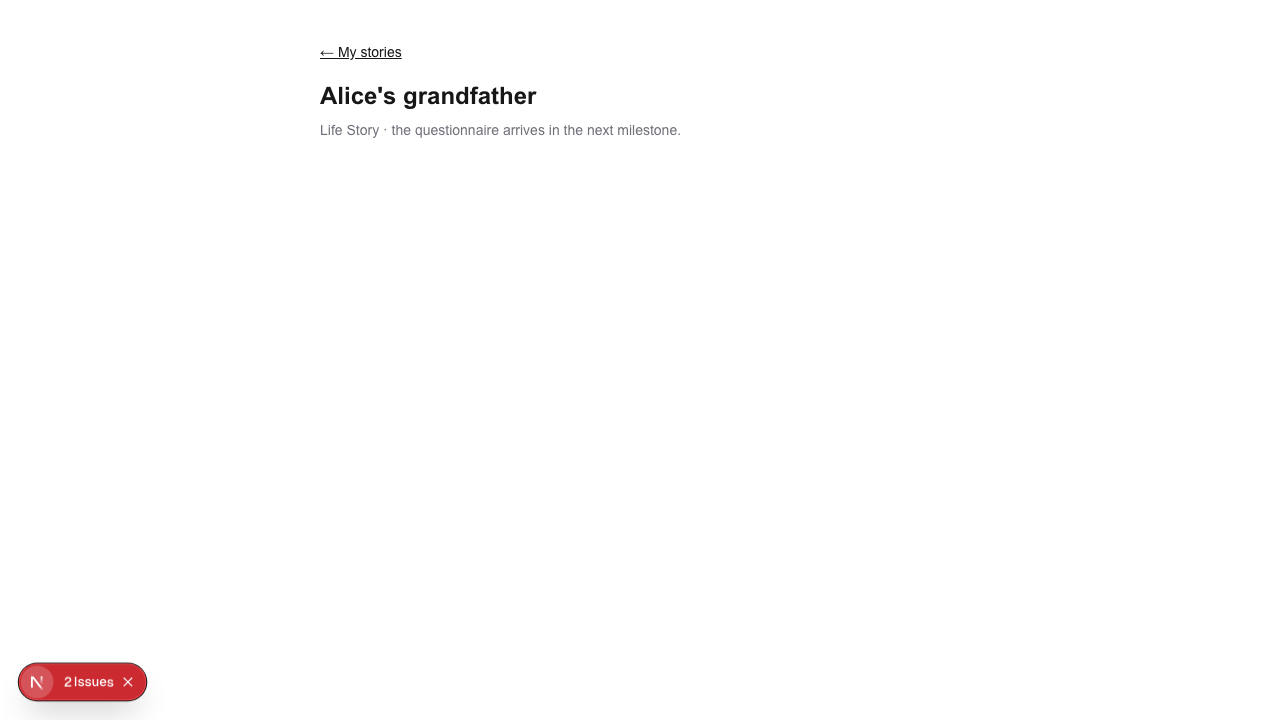
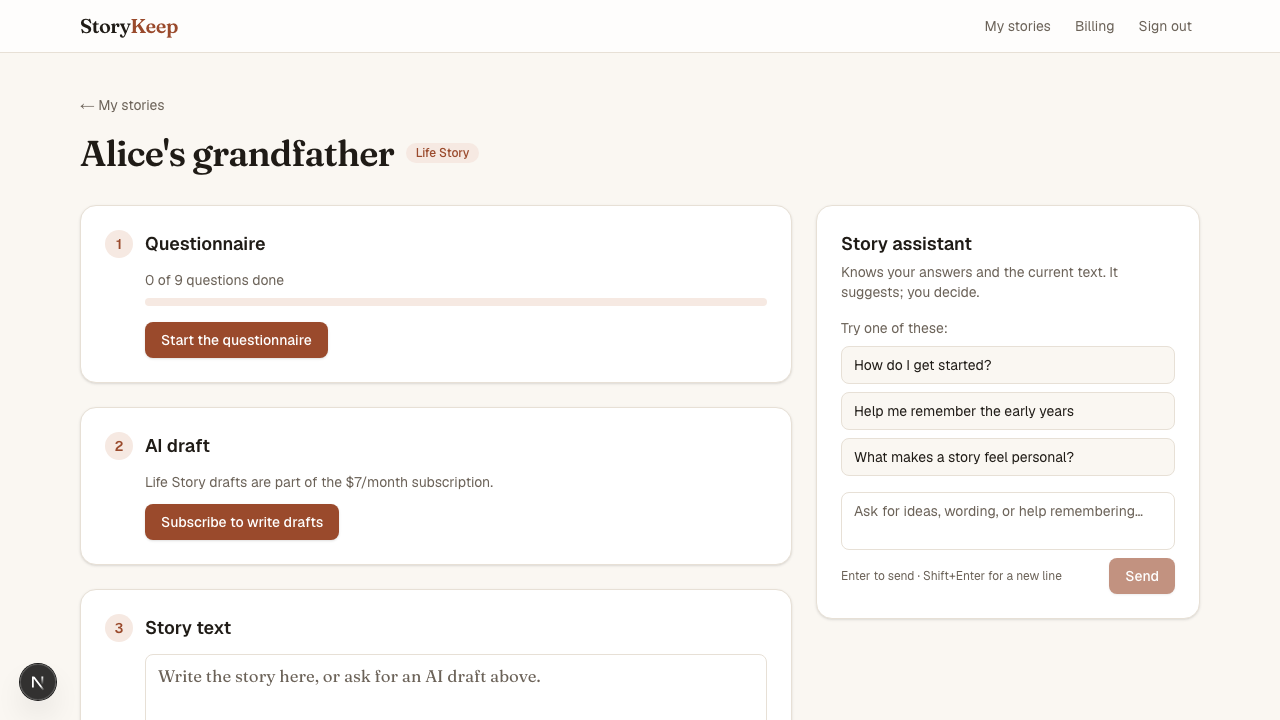
feat: let owners delete a story after confirming
The story page gets a "Delete this story" section with a two-step
confirm. Answers and versions cascade; orders keep their row with
story_id set to null. An unused paid eulogy draft gets an extra warning.

diff --git a/tests/integration/story-access.test.ts b/tests/integration/story-access.test.ts
@@ -1,5 +1,14 @@
 import { beforeEach, describe, expect, it, vi } from "vitest";
-import { createStory, getStoryForUser, listStoriesForUser } from "@/stories/data";
+import {
+  createStory,
+  deleteStoryForUser,
+  getStoryForUser,
+  listStoriesForUser,
+} from "@/stories/data";
+import { eq } from "drizzle-orm";
+import { getDb } from "@/db/client";
+import { storyVersions } from "@/db/schema";
+import { saveVersion } from "@/stories/versions";
 import { createTestUser, resetDb } from "../helpers/db";
 
 // The session is the only thing we fake. The database, the queries and the
@@ -52,6 +61,29 @@ describe("per-user access control for stories", () => {
 
     it("treats a malformed id as not found instead of crashing", async () => {
       expect(await getStoryForUser(alice.id, "not-a-uuid")).toBeNull();
+    });
+
+    it("does not let user A delete user B's story", async () => {
+      expect(await deleteStoryForUser(alice.id, bobsStoryId)).toBe(false);
+      expect(await getStoryForUser(bob.id, bobsStoryId)).not.toBeNull();
+    });
+
+    it("lets the owner delete their story, versions included", async () => {
+      await saveVersion(bob.id, bobsStoryId, { source: "user_edit", content: "Once upon a time" });
+
+      expect(await deleteStoryForUser(bob.id, bobsStoryId)).toBe(true);
+      expect(await getStoryForUser(bob.id, bobsStoryId)).toBeNull();
+      const orphans = await getDb()
+        .select()
+        .from(storyVersions)
+        .where(eq(storyVersions.storyId, bobsStoryId));
+      expect(orphans).toEqual([]);
+      // A second delete finds nothing.
+      expect(await deleteStoryForUser(bob.id, bobsStoryId)).toBe(false);
+    });
+
+    it("treats a malformed id as nothing to delete", async () => {
+      expect(await deleteStoryForUser(bob.id, "not-a-uuid")).toBe(false);
     });
   });
 

diff --git a/src/app/stories/[id]/delete-story.tsx b/src/app/stories/[id]/delete-story.tsx
@@ -1,0 +1,48 @@
+"use client";
+
+import { useState } from "react";
+import { SubmitButton } from "@/app/submit-button";
+import { buttonDanger, buttonSecondary, muted } from "@/app/ui";
+
+/**
+ * Deleting cannot be undone, so it takes two clicks: the first only asks.
+ */
+export function DeleteStory({
+  action,
+  warning,
+}: {
+  action: () => Promise<void>;
+  warning?: string;
+}) {
+  const [confirming, setConfirming] = useState(false);
+
+  if (!confirming) {
+    return (
+      <button type="button" onClick={() => setConfirming(true)} className={buttonSecondary}>
+        Delete story
+      </button>
+    );
+  }
+
+  return (
+    <form action={action} role="alertdialog" aria-label="Confirm delete">
+      <p className={muted}>
+        This deletes the story, its answers and every version for good. It
+        cannot be undone.
+      </p>
+      {warning && (
+        <p className="mt-2 rounded-lg bg-red-50 px-3 py-2 text-sm text-red-700 dark:bg-red-950 dark:text-red-300">
+          {warning}
+        </p>
+      )}
+      <div className="mt-3 flex flex-wrap gap-3">
+        <SubmitButton className={buttonDanger} pendingLabel="Deleting…">
+          Delete forever
+        </SubmitButton>
+        <button type="button" onClick={() => setConfirming(false)} className={buttonSecondary}>
+          Cancel
+        </button>
+      </div>
+    </form>
+  );
+}

diff --git a/tests/e2e/delete-story.spec.ts b/tests/e2e/delete-story.spec.ts
@@ -1,0 +1,28 @@
+import { expect, test } from "@playwright/test";
+import { createStory, register } from "./helpers";
+
+const run = Date.now();
+
+test("a user can delete a story after confirming", async ({ page }) => {
+  await register(page, `dora-${run}@example.com`);
+  await createStory(page, "Story to delete");
+  const storyPath = new URL(page.url()).pathname;
+
+  // The first click only asks. Cancel leaves the story alone.
+  await page.getByRole("button", { name: "Delete story" }).click();
+  await page.getByRole("button", { name: "Cancel" }).click();
+  await expect(page.getByRole("button", { name: "Delete forever" })).toHaveCount(0);
+
+  await page.getByRole("button", { name: "Delete story" }).click();
+  await page.getByRole("button", { name: "Delete forever" }).click();
+
+  await expect(page).toHaveURL(/\/stories$/);
+  // Next.js keeps the page we came from hidden in the DOM, so scope to the
+  // visible one.
+  const list = page.locator("main:visible");
+  await expect(list.getByRole("heading", { name: "My stories" })).toBeVisible();
+  await expect(list.getByText("Story to delete")).toHaveCount(0);
+
+  await page.goto(storyPath);
+  await expect(page.getByText("This page could not be found")).toBeVisible();
+});

diff --git a/src/app/stories/[id]/page.tsx b/src/app/stories/[id]/page.tsx
@@ -25,12 +25,14 @@ import {
   textLink,
 } from "@/app/ui";
 import {
+  deleteStoryAction,
   requestDraftAction,
   saveStoryTextAction,
   startEulogyCheckoutAction,
 } from "./actions";
 import { StoryAssistant } from "./assistant";
 import { AutoRefresh } from "./auto-refresh";
+import { DeleteStory } from "./delete-story";
 
 const SOURCE_LABEL = { llm_draft: "AI draft", user_edit: "Your edit" } as const;
 
@@ -325,6 +327,20 @@ async function StoryDetail({ params, searchParams }: Props) {
                 ))}
               </ol>
             )}
+          </section>
+
+          <section className={card}>
+            <h2 className={sectionTitle}>Delete this story</h2>
+            <div className="mt-3">
+              <DeleteStory
+                action={deleteStoryAction.bind(null, story.id)}
+                warning={
+                  eulogyPayment === "paid_unused"
+                    ? "You paid for a draft of this eulogy and have not used it yet. Deleting the story gives up that draft."
+                    : undefined
+                }
+              />
+            </div>
           </section>
         </div>
 

diff --git a/src/app/ui.ts b/src/app/ui.ts
@@ -9,7 +9,9 @@ export const buttonPrimary = `inline-flex items-center justify-center gap-2 roun
 
 export const buttonSecondary = `inline-flex items-center justify-center gap-2 rounded-lg border border-line bg-surface px-4 py-2 text-sm font-medium text-ink transition hover:border-accent hover:text-accent disabled:cursor-not-allowed disabled:opacity-60 ${focus}`;
 
-export const card = "rounded-2xl border border-line bg-surface p-5 shadow-sm sm:p-6";
+export const buttonDanger = `inline-flex items-center justify-center gap-2 rounded-lg bg-red-700 px-4 py-2 text-sm font-medium text-white shadow-sm transition hover:bg-red-800 disabled:cursor-not-allowed disabled:opacity-60 dark:bg-red-600 dark:hover:bg-red-700 ${focus}`;
+
+export const card ="rounded-2xl border border-line bg-surface p-5 shadow-sm sm:p-6";
 
 export const field =
   "w-full rounded-lg border border-line bg-surface px-3 py-2 text-base text-ink placeholder:text-muted focus:border-accent focus:outline-none focus:ring-2 focus:ring-accent/30";

diff --git a/src/app/stories/[id]/actions.ts b/src/app/stories/[id]/actions.ts
@@ -8,6 +8,7 @@ import { startEulogyCheckout } from "@/billing/checkout";
 import { saveAnswer } from "@/questionnaire/data";
 import { isQuestionKey } from "@/questionnaire/questions";
 import { runPendingJobsQuietly } from "@/jobs/run";
+import { deleteStoryForUser } from "@/stories/data";
 import { requestDraft } from "@/stories/drafts";
 import { restoreVersion, saveVersion } from "@/stories/versions";
 
@@ -80,6 +81,14 @@ export async function requestDraftAction(storyId: string) {
   // Go to the clean URL. This drops ?checkout=success, which only matters
   // while the page waits for the payment webhook.
   redirect(`/stories/${storyId}`);
+}
+
+export async function deleteStoryAction(storyId: string) {
+  const userId = await requireUser();
+  const deleted = await deleteStoryForUser(userId, storyId);
+  if (!deleted) notFound();
+
+  redirect("/stories");
 }
 
 export async function startEulogyCheckoutAction(storyId: string) {

diff --git a/src/stories/data.ts b/src/stories/data.ts
@@ -46,6 +46,24 @@ export async function createStory(
   return story;
 }
 
+/**
+ * Deletes the story if this user owns it. Answers and versions go with it
+ * (ON DELETE CASCADE); orders keep their row with story_id set to null.
+ * Returns false when there was nothing of theirs to delete.
+ */
+export async function deleteStoryForUser(
+  userId: string,
+  storyId: string,
+): Promise<boolean> {
+  if (!uuidSchema.safeParse(storyId).success) return false;
+
+  const deleted = await getDb()
+    .delete(stories)
+    .where(and(eq(stories.id, storyId), eq(stories.userId, userId)))
+    .returning({ id: stories.id });
+  return deleted.length > 0;
+}
+
 /** The handle Drizzle gives you inside `db.transaction(...)`. */
 export type Tx = Parameters<Parameters<Db["transaction"]>[0]>[0];
 
